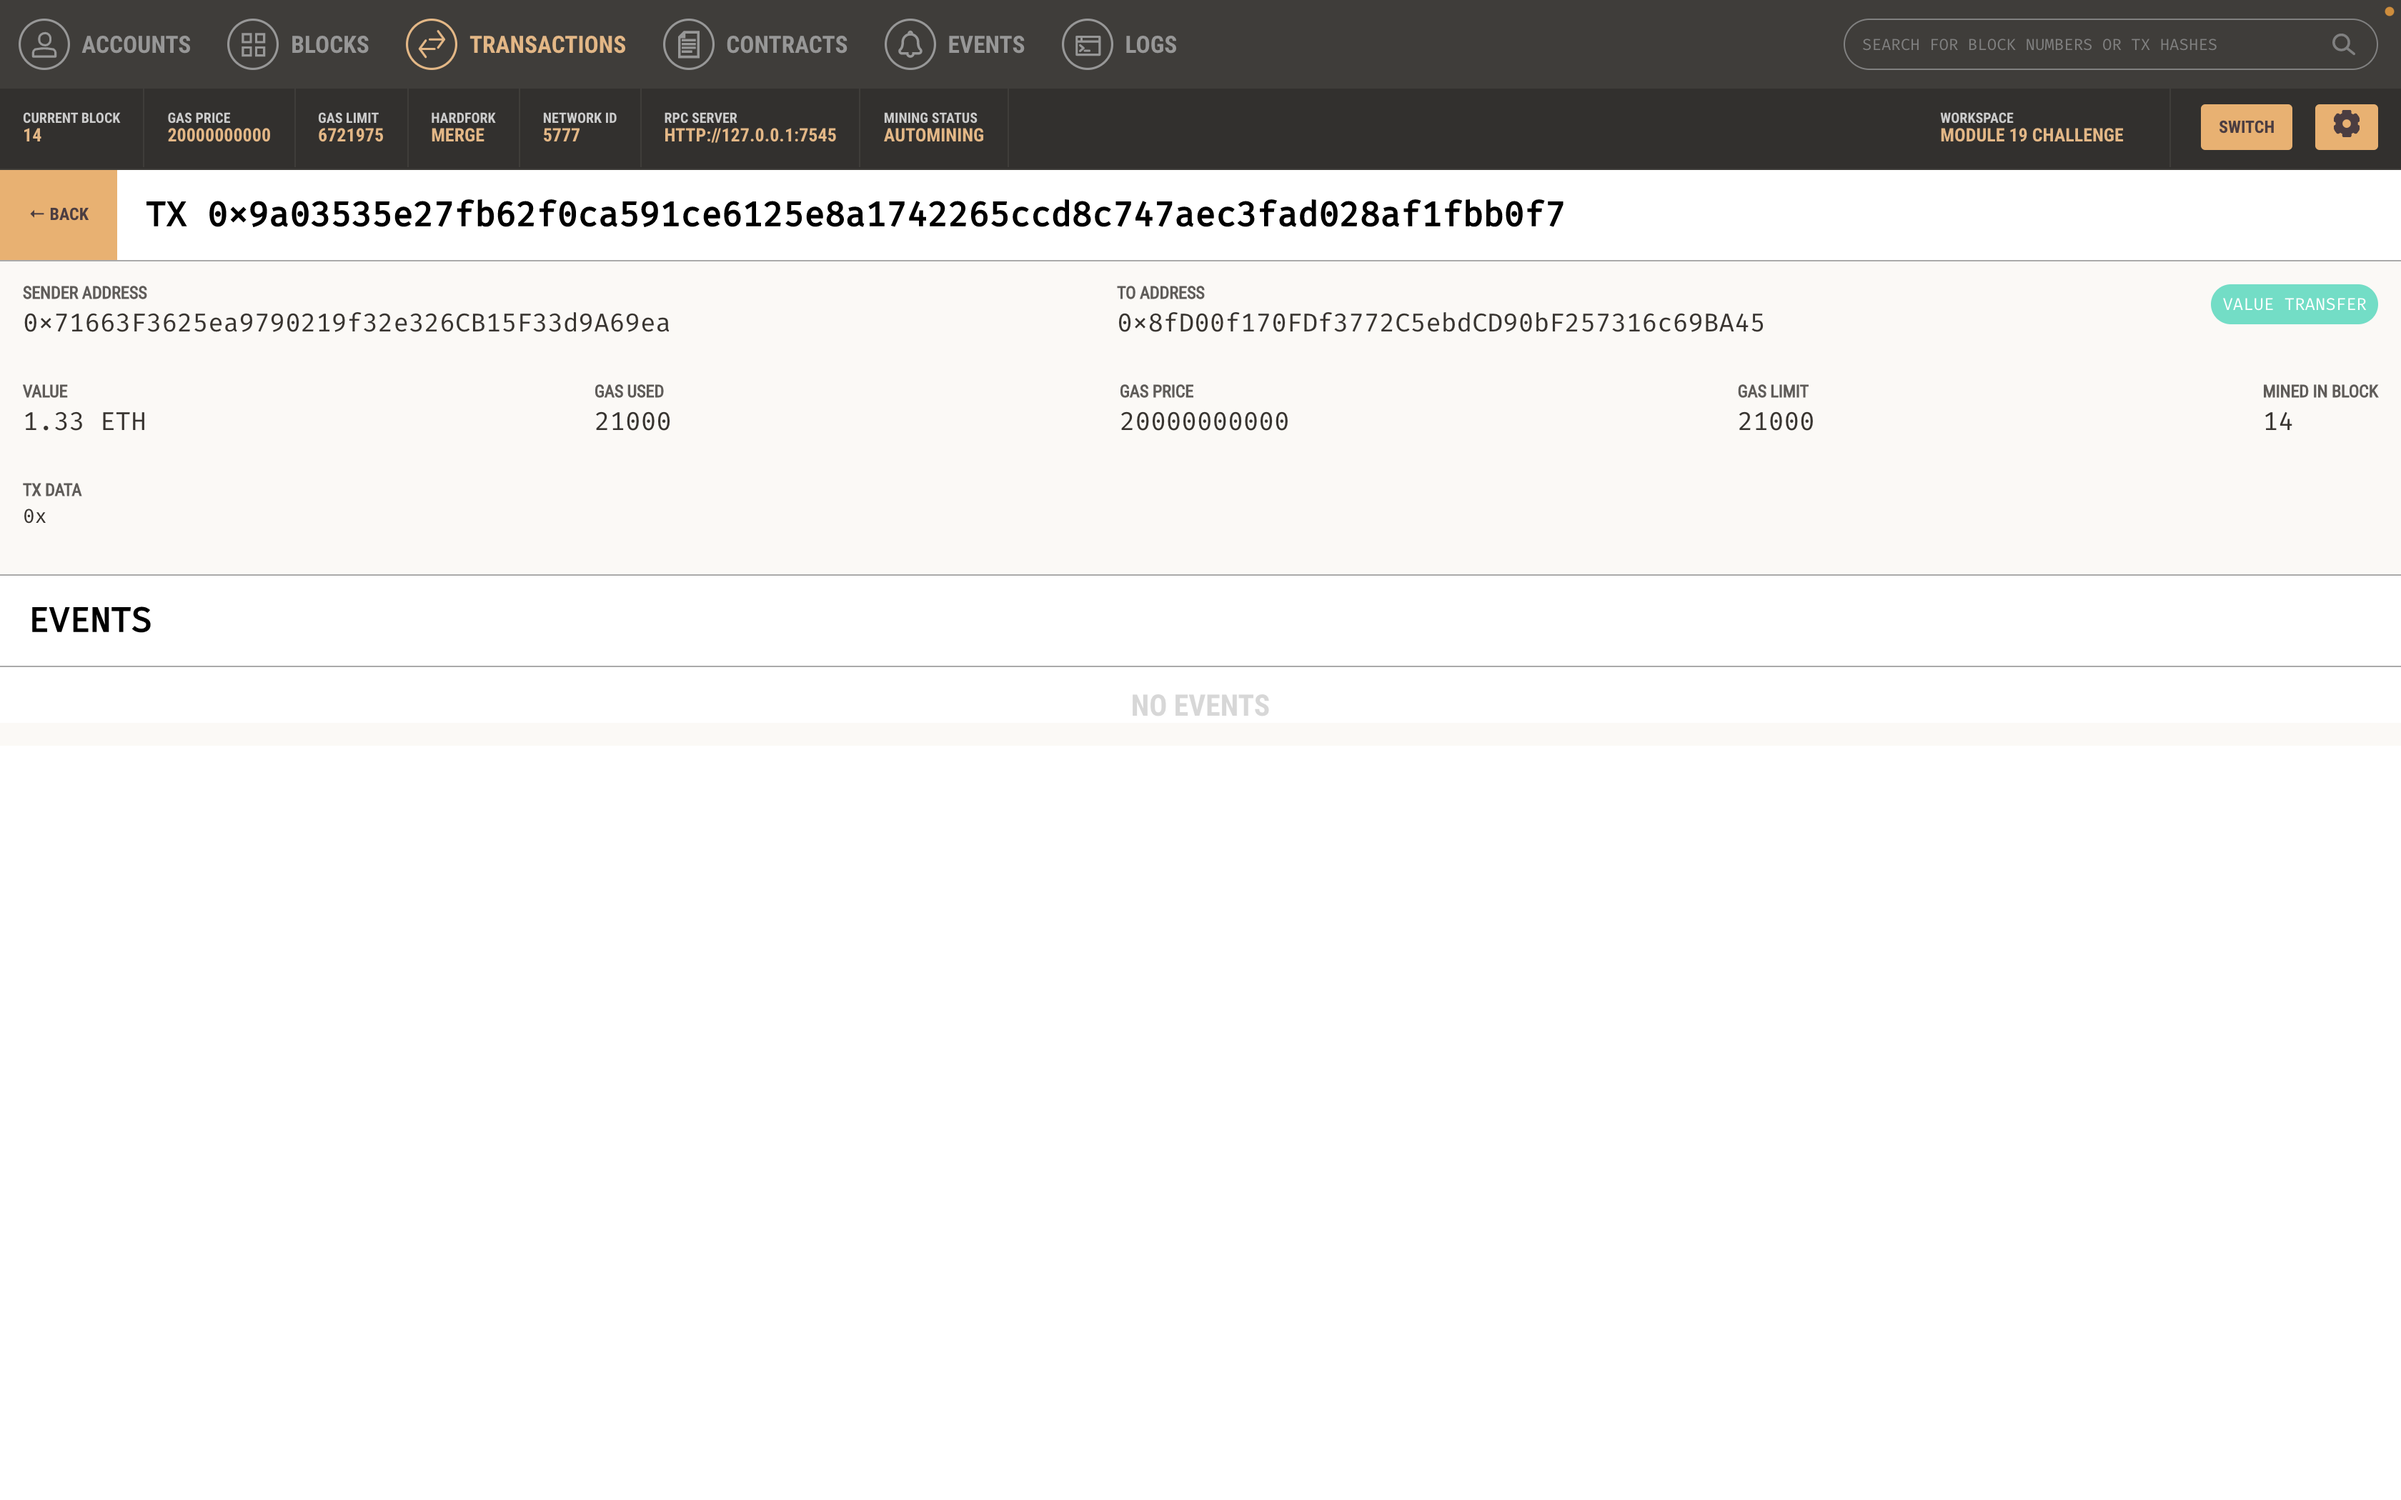
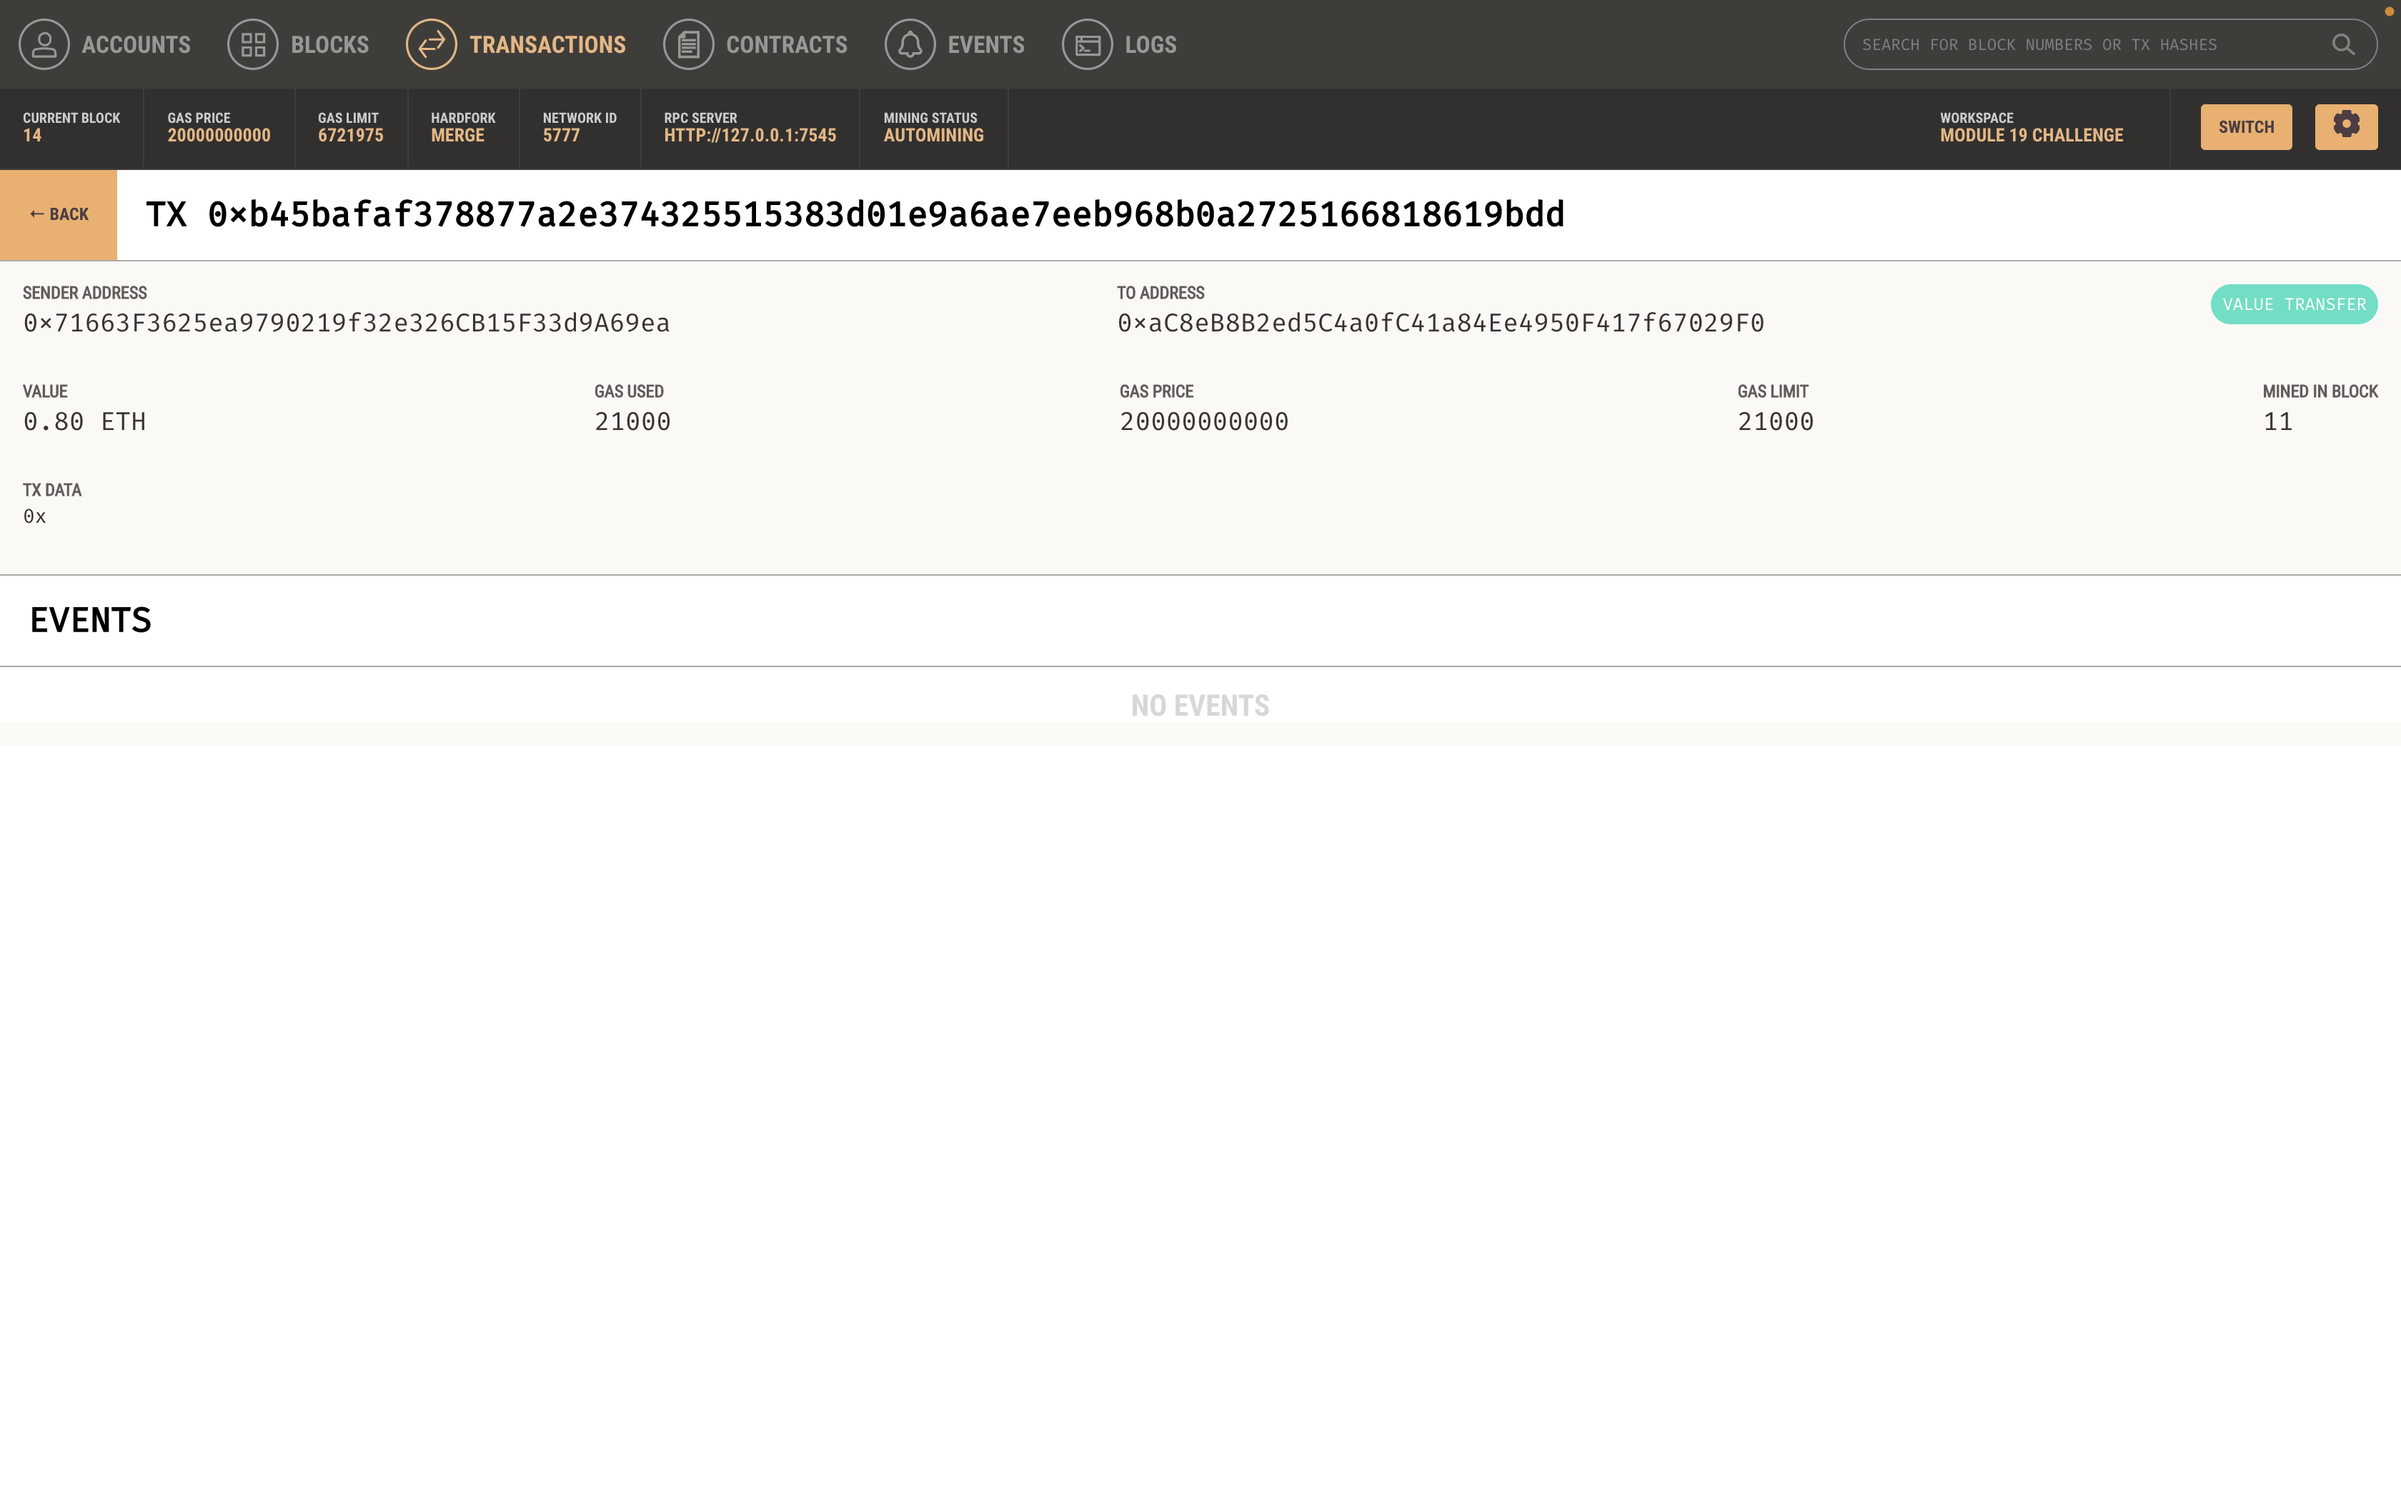
updates

diff --git a/README.md b/README.md
@@ -55,3 +55,7 @@ Once you receive the transaction’s hash code, you will navigate to the Transac
 <p align="center">
 <img src = Images/transactions_2.png width =80% height 30%=/>
 </p>
+
+<p align="center">
+<img src = Images/transactions_3.png width =80% height 30%=/>
+</p>
